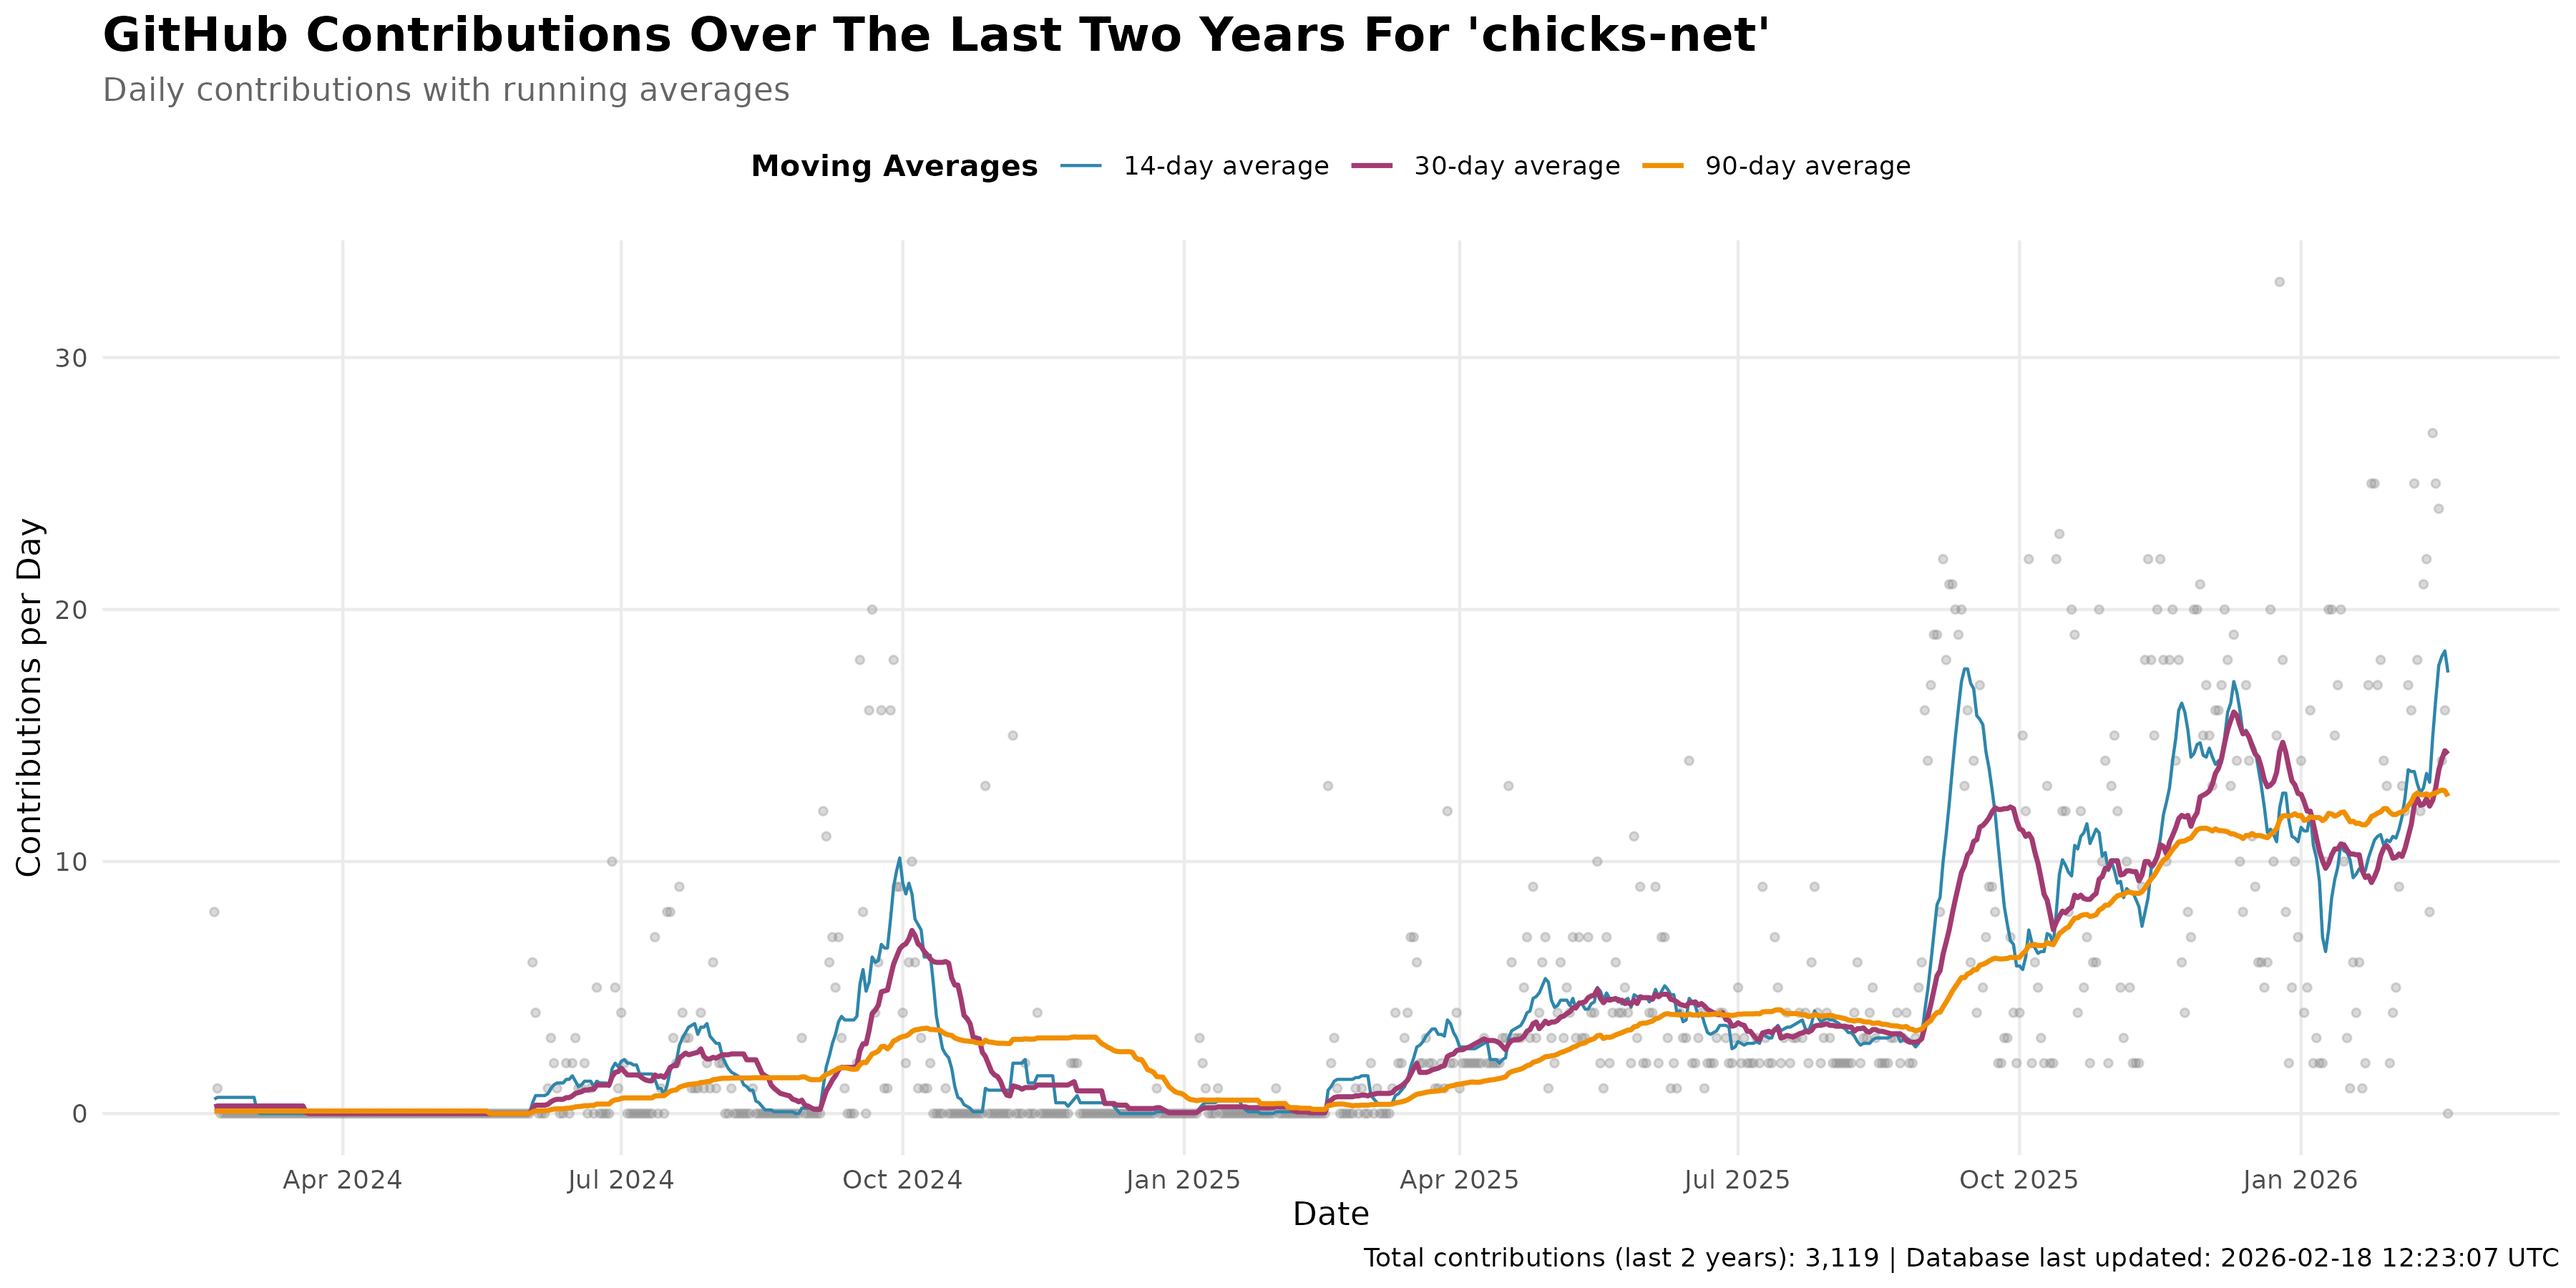
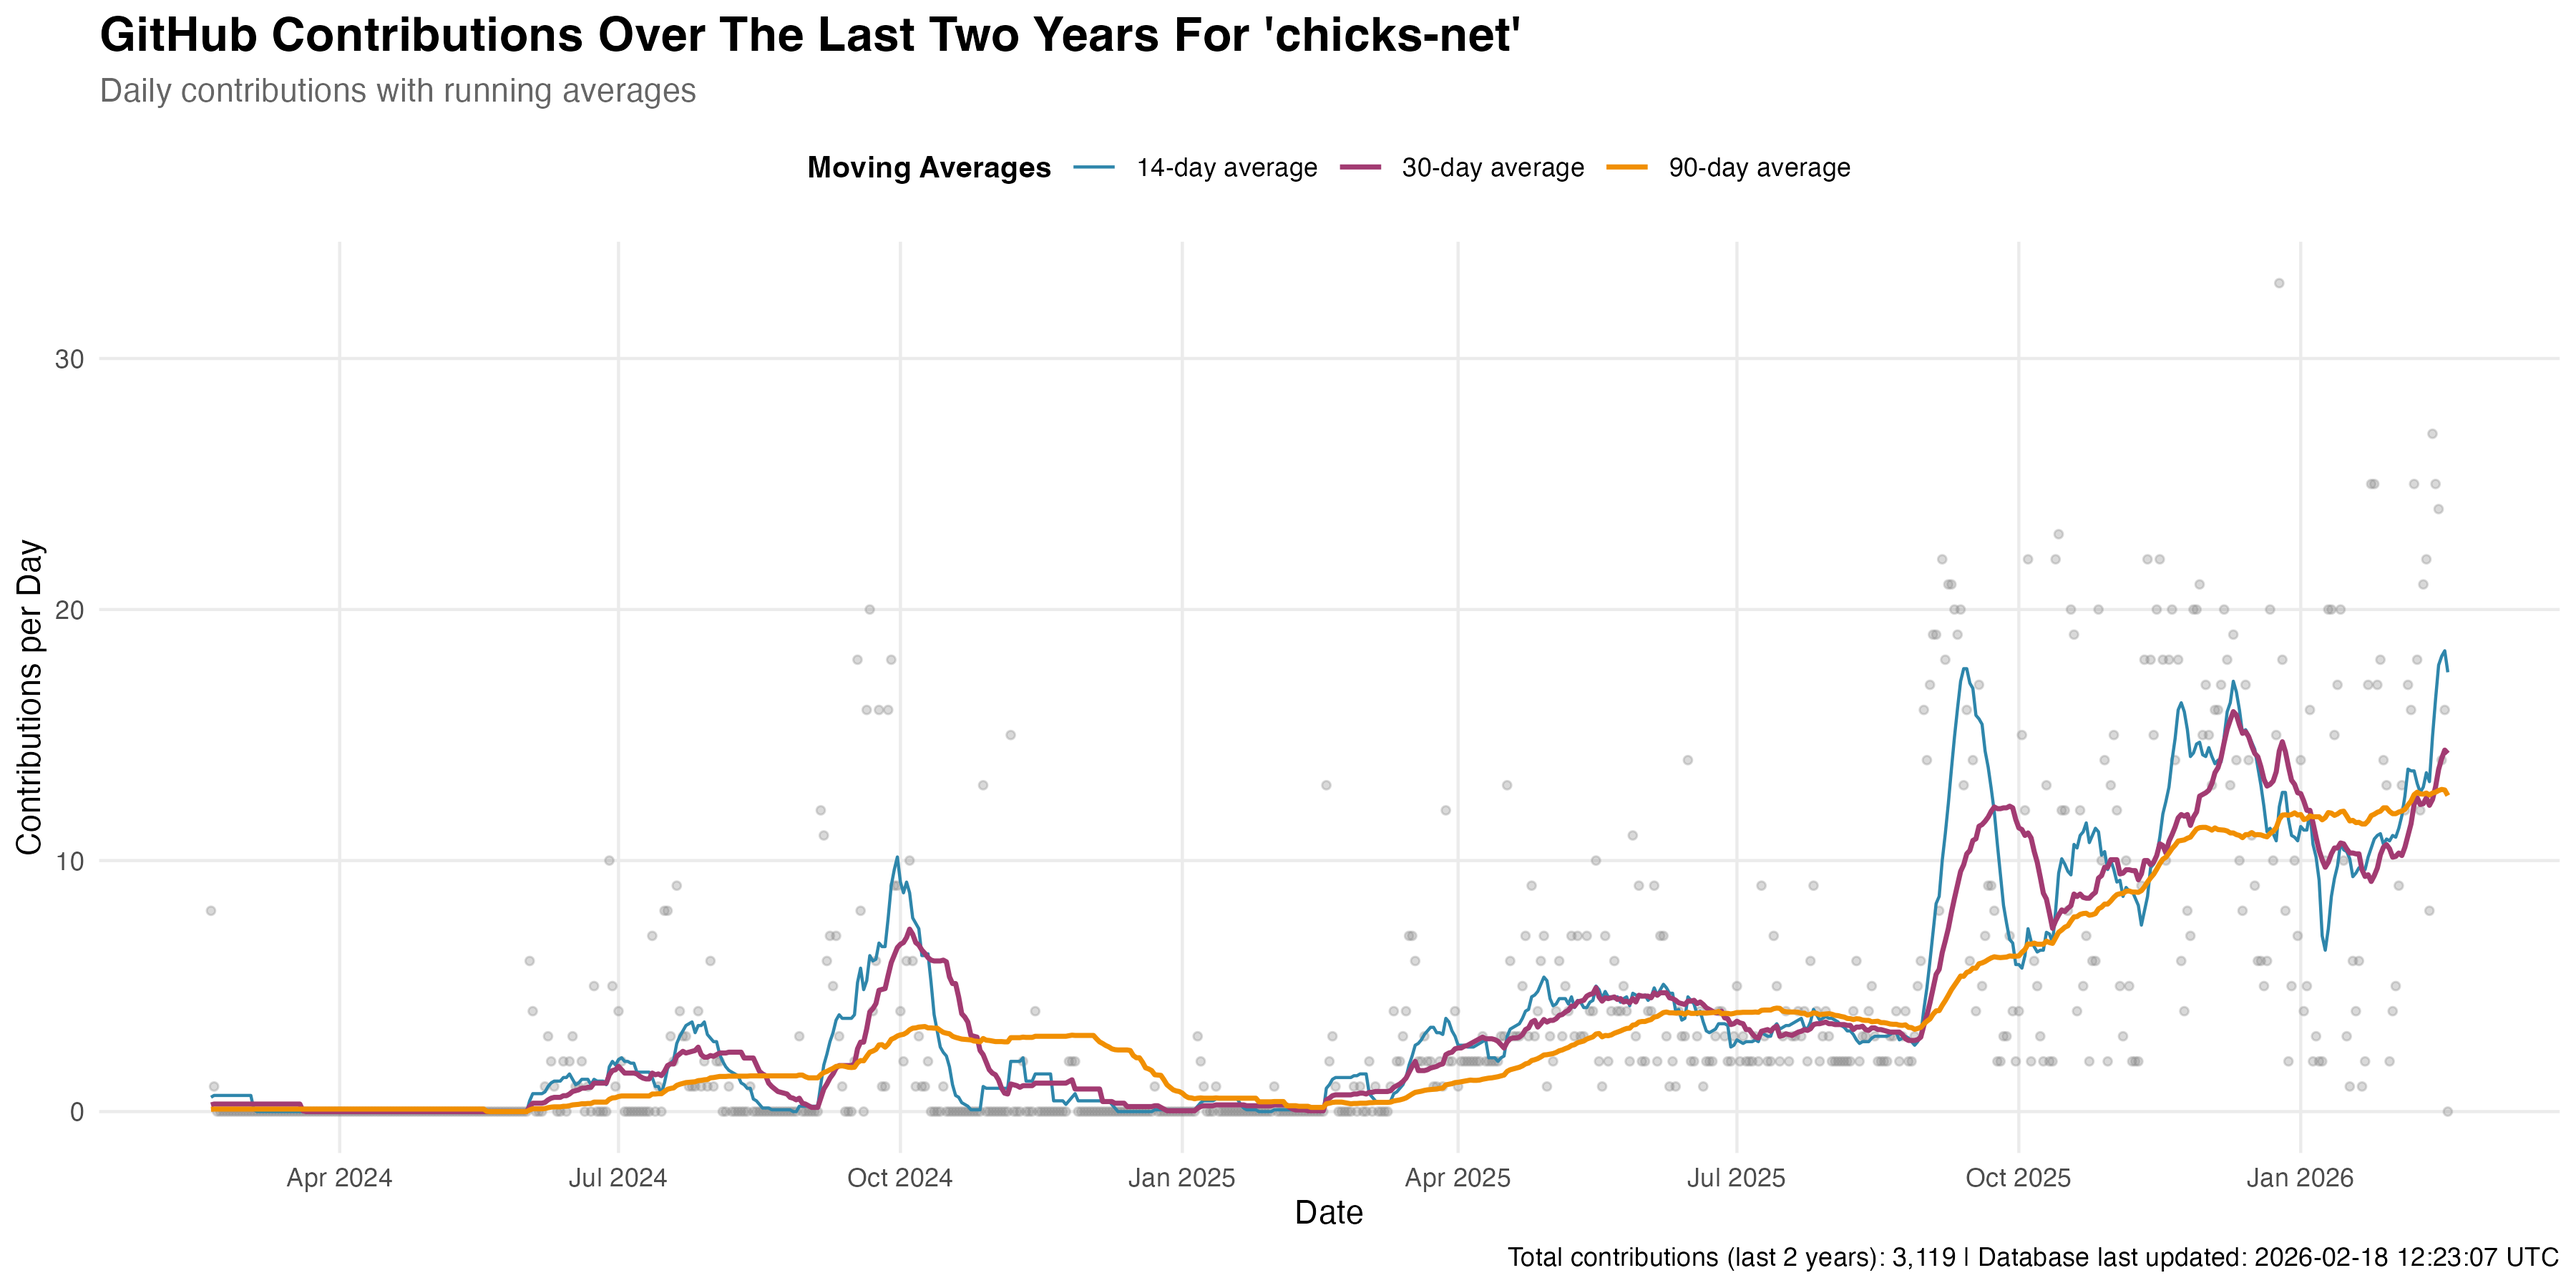
🍷 [github] rename graph alltime to weekly (#153)
* 🍷 [github] rename graph alltime to weekly

* update all graphs

diff --git a/individuals/chicks/github/contributions-analysis/README.md b/individuals/chicks/github/contributions-analysis/README.md
@@ -21,7 +21,7 @@ short-term, medium-term, and long-term trends.
 
 ![Contributions Timeline](contributions-last2years.png)
 
-### 2. All-Time History (2011-Present)
+### 2. Weekly Totals (2011-Present)
 
 Shows weekly aggregated contributions with running averages scaled to show
 the overall activity arc across your entire GitHub history.
@@ -31,7 +31,7 @@ the overall activity arc across your entire GitHub history.
 - **Purple line**: 13-week running average (~1 quarter)
 - **Orange line**: 26-week running average (~6 months)
 
-![Contributions All-Time](contributions-alltime.png)
+![Contributions Weekly](contributions-weekly.png)
 
 ### 3. Monthly Totals
 
@@ -97,8 +97,8 @@ Active days: 91
 Creating contribution graph...
 Saved: contributions-last2years.png
 
-Creating all-time contribution graph...
-Saved: contributions-alltime.png
+Creating weekly contribution graph...
+Saved: contributions-weekly.png
 
 Creating monthly contributions graph...
 Saved: contributions-monthly.png
